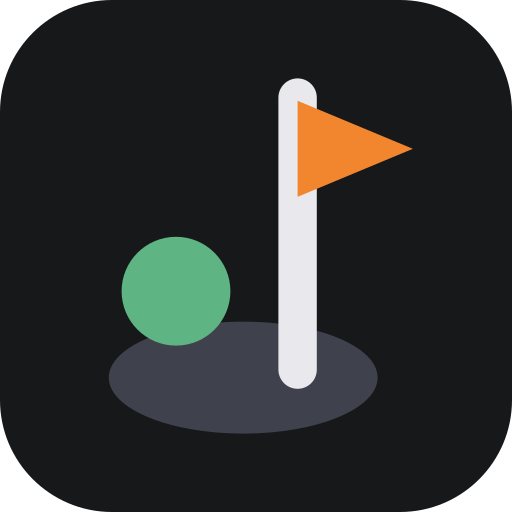
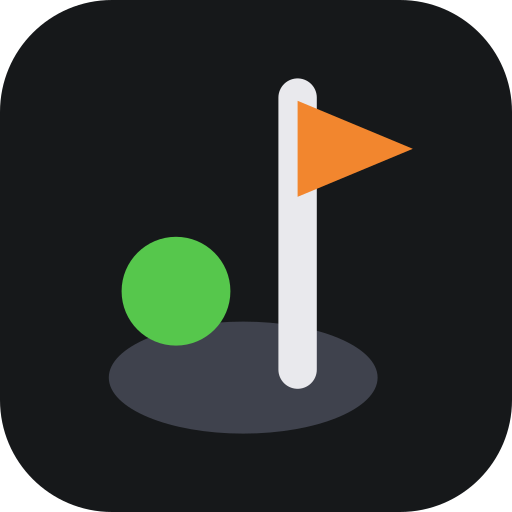
TourneyHQ's green is the India-flag green: every green in the product moves to the leaf side
Ajay, 2026-10-10: the deep, blue-leaning greens read beside white as
another country's flag, and he wants that look out of the product
everywhere — the India green (#138808, hue 115) or some other green.

- Fairway (the second colour many clubs carry) 151 -> 115, its hand-tuned
  ramp turned shade for shade to the new hue. Step 500 goes from 3.91:1 to
  4.54:1 on the dark ground.
- Ivy 158 -> 110, Signal 137 -> 124. Keys unchanged, so a club's stored
  choice still resolves; every ready-made scheme keeps its two colours
  apart (Floodlit 46 degrees).
- The static defaults in globals.css, the scoreboard frame and its green,
  the ball in the logo, the emblem's disc, the share card, the app icons
  (regenerated by gen-icons) and the example hex in the colour picker.

greens-are-leaf-greens.test.ts sweeps the class: every preset, every shade
the ramp draws on both grounds, and every hex, hsl() and rgb() in the
source, against the band the old greens sat in (128-172). Control included;
reverting one token turns it red.

Three guards in themes.test.ts pinned the old green as "the green the app
has always drawn". Read before changing: what they protect — the second
colour is the hand-tuned ramp, identical in themes.ts and globals.css — is
unchanged; the values were moved on purpose and are re-pinned.

Help/docs: nothing to change — neither guide names a shade. The guide PDF
and the email lockup are re-photographed in a following commit.

Changed region(s): [[0.2188, 0.4375, 0.4688, 0.6875]]

diff --git a/src/lib/__tests__/greens-are-leaf-greens.test.ts b/src/lib/__tests__/greens-are-leaf-greens.test.ts
@@ -1,0 +1,128 @@
+import { describe, it, expect } from "vitest";
+import { readdirSync, readFileSync, statSync } from "node:fs";
+import { extname, join } from "node:path";
+import { ACCENT_PRESETS, FAIRWAY, SECONDARY_PRESETS, THEME_PAIRS, hexToHsl, themeScale, DARK_GROUND, LIGHT_GROUND } from "../themes";
+
+/**
+ * TOURNEYHQ'S GREEN IS THE INDIA-FLAG GREEN (Ajay, 2026-10-10).
+ *
+ * `#138808`, hue 115: a leaf green. Until that day the product's greens were
+ * the deep, blue-leaning ones — Fairway at hue 151, Ivy at 158, Signal at 137,
+ * the scoreboard frame, the ball in the logo — and beside white those read as
+ * another country's flag. His instruction was to take that look out
+ * "everywhere", and to use the India green or some other green.
+ *
+ * So this is a sweep of the CLASS rather than a list of the places fixed that
+ * day: no colour anywhere in the source may sit in the band those greens
+ * occupied. A new preset, a new token or a hex pasted into a component is
+ * caught the day it is written, by a rule that does not need anybody to
+ * remember why.
+ *
+ * What it reads: six- and eight-digit hex, `hsl()` and `rgb()` in every source
+ * file, stylesheet, SVG and script — and every preset's hue and generated
+ * ramp. What it does not: three-digit hex (in this codebase `#495` is nearly
+ * always a pull request), a colour a CLUB types as its own, and images.
+ */
+
+/** The band the old greens sat in. India green is 115; the flag it must not resemble is 145. */
+const BAND = { from: 128, to: 172 };
+/** Below this a colour is a grey with a tint, not a green anybody would name. */
+const MIN_SATURATION = 0.18;
+
+function inBand(hue: number, saturation: number): boolean {
+  return hue >= BAND.from && hue <= BAND.to && saturation >= MIN_SATURATION;
+}
+
+function hexInBand(hex: string): boolean {
+  const c = hexToHsl(hex.slice(0, 7));
+  return !!c && inBand(c.h, c.s);
+}
+
+function rgbToHue(r: number, g: number, b: number): { h: number; s: number } {
+  const hex = "#" + [r, g, b].map((v) => Math.max(0, Math.min(255, v)).toString(16).padStart(2, "0")).join("");
+  const c = hexToHsl(hex);
+  return { h: c?.h ?? 0, s: c?.s ?? 0 };
+}
+
+/** Every colour written in one file that falls in the band, as `line: text`. */
+function offenders(text: string): string[] {
+  const out: string[] = [];
+  text.split("\n").forEach((line, i) => {
+    for (const m of line.matchAll(/#[0-9a-fA-F]{6}(?:[0-9a-fA-F]{2})?(?![0-9a-fA-F])/g)) {
+      if (hexInBand(m[0])) out.push(`${i + 1}: ${m[0]}`);
+    }
+    for (const m of line.matchAll(/hsla?\(\s*(\d{1,3})(?:deg)?[\s,]+(\d{1,3})%/g)) {
+      if (inBand(Number(m[1]), Number(m[2]) / 100)) out.push(`${i + 1}: ${m[0]}…)`);
+    }
+    for (const m of line.matchAll(/rgba?\(\s*(\d{1,3})[\s,]+(\d{1,3})[\s,]+(\d{1,3})/g)) {
+      const c = rgbToHue(Number(m[1]), Number(m[2]), Number(m[3]));
+      if (inBand(c.h, c.s)) out.push(`${i + 1}: ${m[0]}…)`);
+    }
+  });
+  return out;
+}
+
+const READ = new Set([".ts", ".tsx", ".css", ".svg", ".mjs", ".js", ".json", ".webmanifest"]);
+
+function* sourceFiles(dir: string): Generator<string> {
+  for (const name of readdirSync(dir)) {
+    if (name === "node_modules" || name === "generated" || name === "__tests__" || name.startsWith(".")) continue;
+    const path = join(dir, name);
+    if (statSync(path).isDirectory()) yield* sourceFiles(path);
+    else if (READ.has(extname(name)) && !name.includes(".test.")) yield path;
+  }
+}
+
+describe("no colour in the product sits in the deep blue-leaning green band", () => {
+  it("CONTROL: the detector flags the greens it was written for, and passes the ones that replaced them", () => {
+    // The old Fairway, the old scoreboard frame, a flag-dark green, and the same in the other notations.
+    expect(offenders('fill="#3c8361"')).toHaveLength(1);
+    expect(offenders("--sb-frame: #1f5a3d;")).toHaveLength(1);
+    expect(offenders("color: #01411c")).toHaveLength(1);
+    expect(offenders("color: hsl(158, 50%, 30%)")).toHaveLength(1);
+    expect(offenders("color: rgb(60, 131, 97)")).toHaveLength(1);
+    // India green, the retuned Fairway, TourneyHQ's orange, a neutral with a green tint.
+    expect(offenders('fill="#138808"')).toEqual([]);
+    expect(offenders('fill="#35932c"')).toEqual([]);
+    expect(offenders('fill="#f2862e"')).toEqual([]);
+    expect(offenders("background: #16181a")).toEqual([]);
+  });
+
+  it("holds for every colour a club can pick, in either role", () => {
+    for (const preset of [...ACCENT_PRESETS, ...SECONDARY_PRESETS]) {
+      expect(inBand(preset.hue, preset.saturation), `${preset.name} is at hue ${preset.hue}`).toBe(false);
+    }
+    // And for what the ramp actually draws from them, on both grounds — a
+    // hand-tuned shade is not obliged to match the hue its preset declares.
+    for (const preset of [...ACCENT_PRESETS, FAIRWAY]) {
+      for (const ground of [DARK_GROUND, LIGHT_GROUND]) {
+        for (const [step, hex] of Object.entries(themeScale(preset, ground))) {
+          expect(hexInBand(hex), `${preset.name} ${step} on ${ground.key} is ${hex}`).toBe(false);
+        }
+      }
+    }
+  });
+
+  it("holds for every ready-made scheme, which is built only from those colours", () => {
+    const keys = new Set([...ACCENT_PRESETS, ...SECONDARY_PRESETS].map((p) => p.key));
+    for (const pair of THEME_PAIRS) {
+      expect(keys.has(pair.accentKey) && keys.has(pair.secondaryKey), `${pair.name} names a colour that is not a preset`).toBe(true);
+    }
+  });
+
+  it("holds for every colour written in the source", () => {
+    const found: string[] = [];
+    let files = 0;
+    for (const root of ["src", "scripts", "public"]) {
+      for (const file of sourceFiles(join(process.cwd(), root))) {
+        files += 1;
+        for (const hit of offenders(readFileSync(file, "utf8"))) {
+          found.push(`${file.slice(process.cwd().length + 1).replace(/\\/g, "/")}:${hit}`);
+        }
+      }
+    }
+    // A walk that read nothing would pass this by looking at nothing.
+    expect(files, "the sweep read almost no files — did the directories move?").toBeGreaterThan(400);
+    expect(found).toEqual([]);
+  });
+});

diff --git a/src/lib/themes.ts b/src/lib/themes.ts
@@ -60,14 +60,28 @@ export const THEME_PRESETS: ThemePreset[] = [
   { key: "links", name: "Links", blurb: "Cool coastal blue.", hue: 205, saturation: 0.7 },
   { key: "heather", name: "Heather", blurb: "Purple, like the rough at Gleneagles.", hue: 280, saturation: 0.45 },
   { key: "bunker", name: "Bunker", blurb: "Soft sand gold.", hue: 42, saturation: 0.72 },
-  { key: "ivy", name: "Ivy", blurb: "Clubhouse green, deeper than the fairway.", hue: 158, saturation: 0.5 },
+  // THE GREENS SIT ON THE LEAF SIDE OF THE WHEEL (Ajay, 2026-10-10).
+  //
+  // TourneyHQ's green is the India-flag green, #138808 — hue 115. Ivy was 158,
+  // Signal 137 and Fairway 151: the deep, blue-leaning greens, which beside
+  // white read as a different flag altogether, and he does not want that look
+  // anywhere in the product. So every green here now sits between Optic (78)
+  // and 125, and `greens-are-leaf-greens.test.ts` sweeps the whole source for
+  // a colour in the band this left. The KEYS are what a club's row stores and
+  // none has changed, so a club that chose Ivy still has Ivy — a shade warmer.
+  //
+  // Hue 110: 14 from Signal, which the picker needs to tell them apart, and 5
+  // from the flag's own green.
+  { key: "ivy", name: "Ivy", blurb: "Clubhouse green — the deep leaf green of a well-kept course.", hue: 110, saturation: 0.62 },
   // Two borrowed from outside golf, because a club's identity often is.
   //
   // Signal is the bright playing green the newer golf apps use — vivid rather
   // than natural, and it reads at arm's length in sun, which is the whole
   // argument for it. It is deliberately a long way from Fairway and Ivy: those
   // are the colour of grass, this is the colour of a number lighting up.
-  { key: "signal", name: "Signal", blurb: "Bright playing green — a score lighting up, not a fairway.", hue: 137, saturation: 0.9 },
+  // Hue 124 since 2026-10-10 (it was 137): as far round as a green goes here,
+  // and still 46 from Optic, so Floodlit's two colours read as two.
+  { key: "signal", name: "Signal", blurb: "Bright playing green — a score lighting up, not a fairway.", hue: 124, saturation: 0.9 },
   // Violet is the developer-tool palette on a near-black page. No golf club
   // has ever been this colour, which is exactly why a society or a corporate
   // outing might pick it.
@@ -106,21 +120,23 @@ export const FAIRWAY: ThemePreset = {
   key: "fairway",
   name: "Fairway",
   blurb: "The colour of the game — the default, and the safe answer.",
-  hue: 151,
-  saturation: 0.42,
-  // The exact ramp the app has always drawn, so a club that never touches
-  // this sees no change at all. Generating it instead moved every advancing
-  // row from forest green to mint.
+  // The India-flag green's hue since 2026-10-10. It was 151.
+  hue: 115,
+  saturation: 0.55,
+  // A hand-tuned ramp, so a club that never touches this keeps a deep green
+  // rather than the bright one the shared curve would generate. These are the
+  // shades the app always drew, each turned to hue 115 at its own lightness —
+  // which also lifts step 500 from 3.91:1 to 4.54:1 on the dark ground.
   fixedDarkScale: {
-    100: "#e7f5ec",
-    200: "#c3e6d0",
-    300: "#93d0ac",
-    400: "#5fb484",
-    500: "#3c8361",
-    600: "#2e6a4c",
-    700: "#23503a",
-    800: "#173627",
-    900: "#0d2016",
+    100: "#e6f8e4",
+    200: "#bfeebb",
+    300: "#8dde85",
+    400: "#56c74c",
+    500: "#35932c",
+    600: "#287821",
+    700: "#1e5a19",
+    800: "#143d10",
+    900: "#0b2409",
   },
 };
 
@@ -1373,7 +1389,7 @@ export const SHARE_CARD = {
   /** The default accent, resolved on the dark ground. */
   accent: themeScale(THEME_PRESETS[0], DARK_GROUND)[500],
   /** Fairway green, lifted so the ball reads against the dark ground. */
-  fairway: "#5fb484",
+  fairway: "#56c74c",
   /**
    * TourneyHQ's OWN orange — the flag, the HQ chip, and the wordmark's middle
    * stop. A rasterizer (Satori) cannot read custom properties, so the share

diff --git a/src/lib/__tests__/themes.test.ts b/src/lib/__tests__/themes.test.ts
@@ -495,11 +495,13 @@ describe("the second colour", () => {
     expect(new Set(SECONDARY_PRESETS.map((p) => p.key)).size).toBe(SECONDARY_PRESETS.length);
   });
 
-  it("stays recognisably the green the app has always drawn", () => {
+  it("is the leaf green of the India flag, not the deep blue-leaning one", () => {
+    // It asserted 130 < hue < 175 — "the green the app has always drawn".
+    // Ajay moved it on 2026-10-10: TourneyHQ's green is #138808's hue (115),
+    // and the band it used to sit in is the one the product now keeps out of.
     const s = themeScale(FAIRWAY, DARK_GROUND);
     const hsl = hexToHsl(s[500]);
-    expect(hsl!.h).toBeGreaterThan(130);
-    expect(hsl!.h).toBeLessThan(175);
+    expect(Math.round(hsl!.h)).toBe(Math.round(hexToHsl("#138808")!.h));
   });
 
   it("takes a club's own colour, same as the main one", () => {
@@ -664,13 +666,19 @@ describe("a club that has chosen nothing sees no change", () => {
   // green to a bright mint — every advancing row, under-par score and won
   // match in the app changed colour for clubs that had picked nothing. Pinned
   // exactly, because "close enough" is what let it drift the first time.
+  //
+  // THE GREEN WAS MOVED ONCE, ON PURPOSE (Ajay, 2026-10-10): each shade below
+  // is the old one turned to the India-flag green's hue at its own lightness.
+  // What this block protects is unchanged — the second colour is the
+  // hand-tuned ramp, the same in `themes.ts` and in globals.css's static
+  // defaults, and never whatever the shared curve would generate.
   const SHIPPED_ACCENT: Record<number, string> = {
     100: "#fef3ea", 200: "#fde0cb", 300: "#fac6a1", 400: "#f6a566", 500: "#f2872e",
     600: "#d06f23", 700: "#a5561b", 800: "#6c3c18", 900: "#38230f",
   };
   const SHIPPED_ACCENT_2: Record<number, string> = {
-    100: "#e7f5ec", 200: "#c3e6d0", 300: "#93d0ac", 400: "#5fb484", 500: "#3c8361",
-    600: "#2e6a4c", 700: "#23503a", 800: "#173627", 900: "#0d2016",
+    100: "#e6f8e4", 200: "#bfeebb", 300: "#8dde85", 400: "#56c74c", 500: "#35932c",
+    600: "#287821", 700: "#1e5a19", 800: "#143d10", 900: "#0b2409",
   };
   const STEPS = [100, 200, 300, 400, 500, 600, 700, 800, 900];
 
@@ -696,7 +704,7 @@ describe("a club that has chosen nothing sees no change", () => {
      */
     const stored = { ...DEFAULT_CLUB_THEME, accentKey: "sunset", secondaryKey: "fairway" };
     const vars = themeVarsFor(stored, DARK_GROUND);
-    expect(vars["--color-accent-2"].toLowerCase()).toBe("#3c8361");
+    expect(vars["--color-accent-2"].toLowerCase()).toBe(SHIPPED_ACCENT_2[500]);
     for (const step of STEPS) {
       expect(vars[`--color-accent-2-${step}`].toLowerCase(), `accent-2-${step}`).toBe(
         SHIPPED_ACCENT_2[step],
@@ -721,7 +729,7 @@ describe("a club that has chosen nothing sees no change", () => {
     // The pinned values are tuned for a dark page. Reversing them would not
     // produce a light ramp, so light mode must keep generating.
     const light = themeScale(FAIRWAY, LIGHT_GROUND);
-    expect(light[500].toLowerCase()).not.toBe("#3c8361");
+    expect(light[500].toLowerCase()).not.toBe(SHIPPED_ACCENT_2[500]);
     expect(contrastRatio(light[500], LIGHT_GROUND.bg)).toBeGreaterThanOrEqual(4.49);
     expect(contrastRatio(light[300], LIGHT_GROUND.surface)).toBeGreaterThanOrEqual(4.49);
   });

diff --git a/src/app/globals.css b/src/app/globals.css
@@ -17,7 +17,7 @@
    ────────────────────────────────────────────────────────────────────────── */
 :root:root {
   --color-accent: #f2872e; /* warm orange */
-  --color-accent-2: #3c8361; /* fairway green */
+  --color-accent-2: #35932c; /* fairway green */
 
   --color-accent-100: #fef3ea;
   --color-accent-200: #fde0cb;
@@ -68,7 +68,7 @@
      the home-screen icon and the mark in the app are one drawing in one set of
      colours; brand-consistency.test.ts holds the two together. */
   --thq-flag: #f2862e;
-  --thq-ball: #5fb484;
+  --thq-ball: #56c74c;
   --thq-orange-light: #f6a566;
   --thq-orange-deep: #d06f23;
   --thq-on-flag: #16181a;
@@ -89,25 +89,25 @@
      beside an 18th green. Every text pair is MEASURED in
      scoreboard-colours.test.ts rather than quoted here; red and green are
      never the only signal, the tile is also ringed or boxed. */
-  --sb-frame: #1f5a3d;
+  --sb-frame: #205e1b;
   --sb-trim: #e8e2cf;
   --sb-board: #fbfaf5;
   --sb-tile: #ffffff;
   --sb-blank: #ece8da;
   --sb-ink: #1b1d1c;
   --sb-red: #b3261e;
-  --sb-green: #1f6b43;
+  --sb-green: #217119;
   --sb-on-frame: #ffffff;
 
-  --color-accent-2-100: #e7f5ec;
-  --color-accent-2-200: #c3e6d0;
-  --color-accent-2-300: #93d0ac;
-  --color-accent-2-400: #5fb484;
-  --color-accent-2-500: #3c8361;
-  --color-accent-2-600: #2e6a4c;
-  --color-accent-2-700: #23503a;
-  --color-accent-2-800: #173627;
-  --color-accent-2-900: #0d2016;
+  --color-accent-2-100: #e6f8e4;
+  --color-accent-2-200: #bfeebb;
+  --color-accent-2-300: #8dde85;
+  --color-accent-2-400: #56c74c;
+  --color-accent-2-500: #35932c;
+  --color-accent-2-600: #287821;
+  --color-accent-2-700: #1e5a19;
+  --color-accent-2-800: #143d10;
+  --color-accent-2-900: #0b2409;
 
   /* Ground: same lightness steps as the foundation, hue nudged warm (off
      blue-black toward a neutral charcoal with a whisper of green) so the

diff --git a/src/components/ThemePicker.tsx b/src/components/ThemePicker.tsx
@@ -161,8 +161,8 @@ export function ThemePicker({
   const [draft, setDraft] = useState<ClubTheme>(theme);
   // Held separately from the draft so typing a half-finished hex doesn't blank
   // the preview on every keystroke.
-  const [accentHexDraft, setAccentHexDraft] = useState(theme.accentHex || "#1b4d3e");
-  const [secondaryHexDraft, setSecondaryHexDraft] = useState(theme.secondaryHex || "#1b4d3e");
+  const [accentHexDraft, setAccentHexDraft] = useState(theme.accentHex || "#138808");
+  const [secondaryHexDraft, setSecondaryHexDraft] = useState(theme.secondaryHex || "#138808");
 
   const set = (patch: Partial<ClubTheme>) => {
     setDraft((d) => ({ ...d, ...patch }));
@@ -327,7 +327,7 @@ export function ThemePicker({
           value={value}
           disabled={readOnly}
           onChange={(e) => onChange(e.target.value)}
-          placeholder="#1B4D3E"
+          placeholder="#138808"
           aria-label={label}
         />
         {preview && (
@@ -721,8 +721,8 @@ export function ThemePicker({
             }
             onClick={() => {
               setDraft({ ...DEFAULT_CLUB_THEME });
-              setAccentHexDraft("#1b4d3e");
-              setSecondaryHexDraft("#1b4d3e");
+              setAccentHexDraft("#138808");
+              setSecondaryHexDraft("#138808");
               setSaved(false);
               setError("");
             }}

diff --git a/src/app/actions/organization.ts b/src/app/actions/organization.ts
@@ -317,7 +317,7 @@ export async function saveOrganizationTheme(
   // preset name through.
   if (themeKey === "custom") {
     if (!hexToHsl(themeHex)) {
-      return { ok: false, error: "Enter a colour like #1B4D3E, or pick one of the presets." };
+      return { ok: false, error: "Enter a colour like #138808, or pick one of the presets." };
     }
   } else if (!isThemeKey(themeKey)) {
     return { ok: false, error: "Unknown theme." };
@@ -325,7 +325,7 @@ export async function saveOrganizationTheme(
 
   if (secondaryKey === "custom") {
     if (!hexToHsl(secondaryHex)) {
-      return { ok: false, error: "Enter a second colour like #1B4D3E, or pick one of the presets." };
+      return { ok: false, error: "Enter a second colour like #138808, or pick one of the presets." };
     }
   } else if (!SECONDARY_PRESETS.some((p) => p.key === secondaryKey)) {
     return { ok: false, error: "Unknown second colour." };

diff --git a/src/components/Logo.tsx b/src/components/Logo.tsx
@@ -173,7 +173,7 @@ export function Logo({
     // brand-consistency hex allow-list.
     return (
       <svg width={size} height={size} viewBox="0 0 32 32" fill="none" aria-hidden="true" style={style}>
-        <circle cx="16" cy="16" r="15" fill="#0a1f16" stroke="#c6a052" strokeWidth="1.1" />
+        <circle cx="16" cy="16" r="15" fill="#0c1f0a" stroke="#c6a052" strokeWidth="1.1" />
         <g transform="translate(16 16) scale(0.72) translate(-16 -16)">
           {/* The putt trailing in behind the ball — the display flourish that
               the flat mark deliberately omits so it stays legible when small. */}
